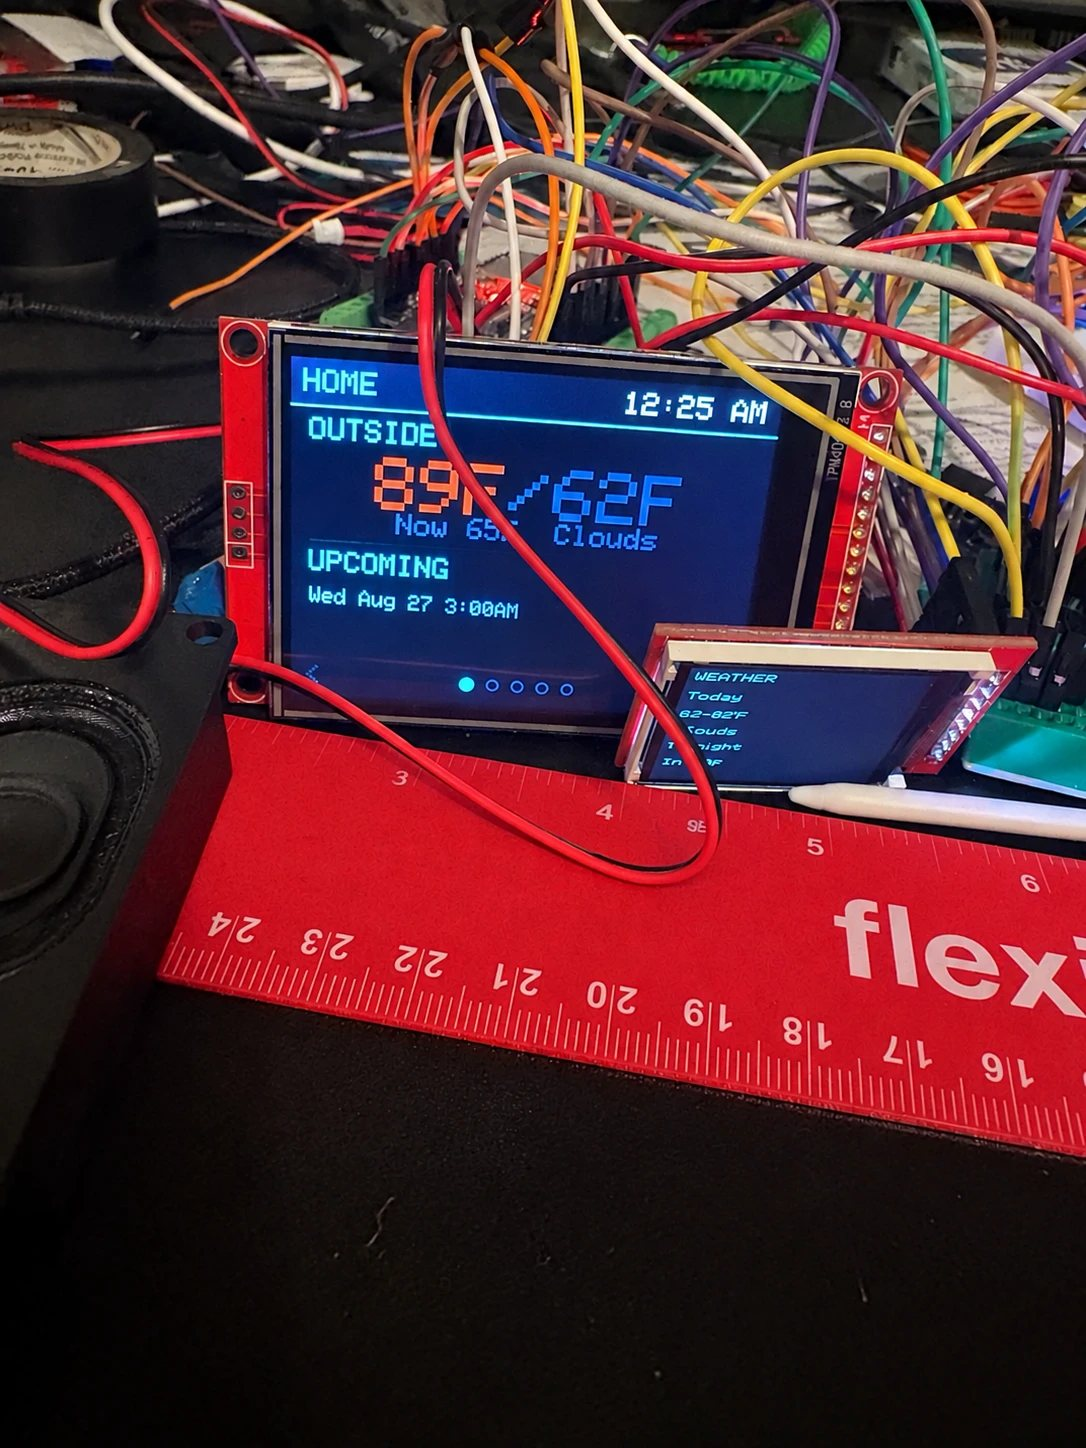
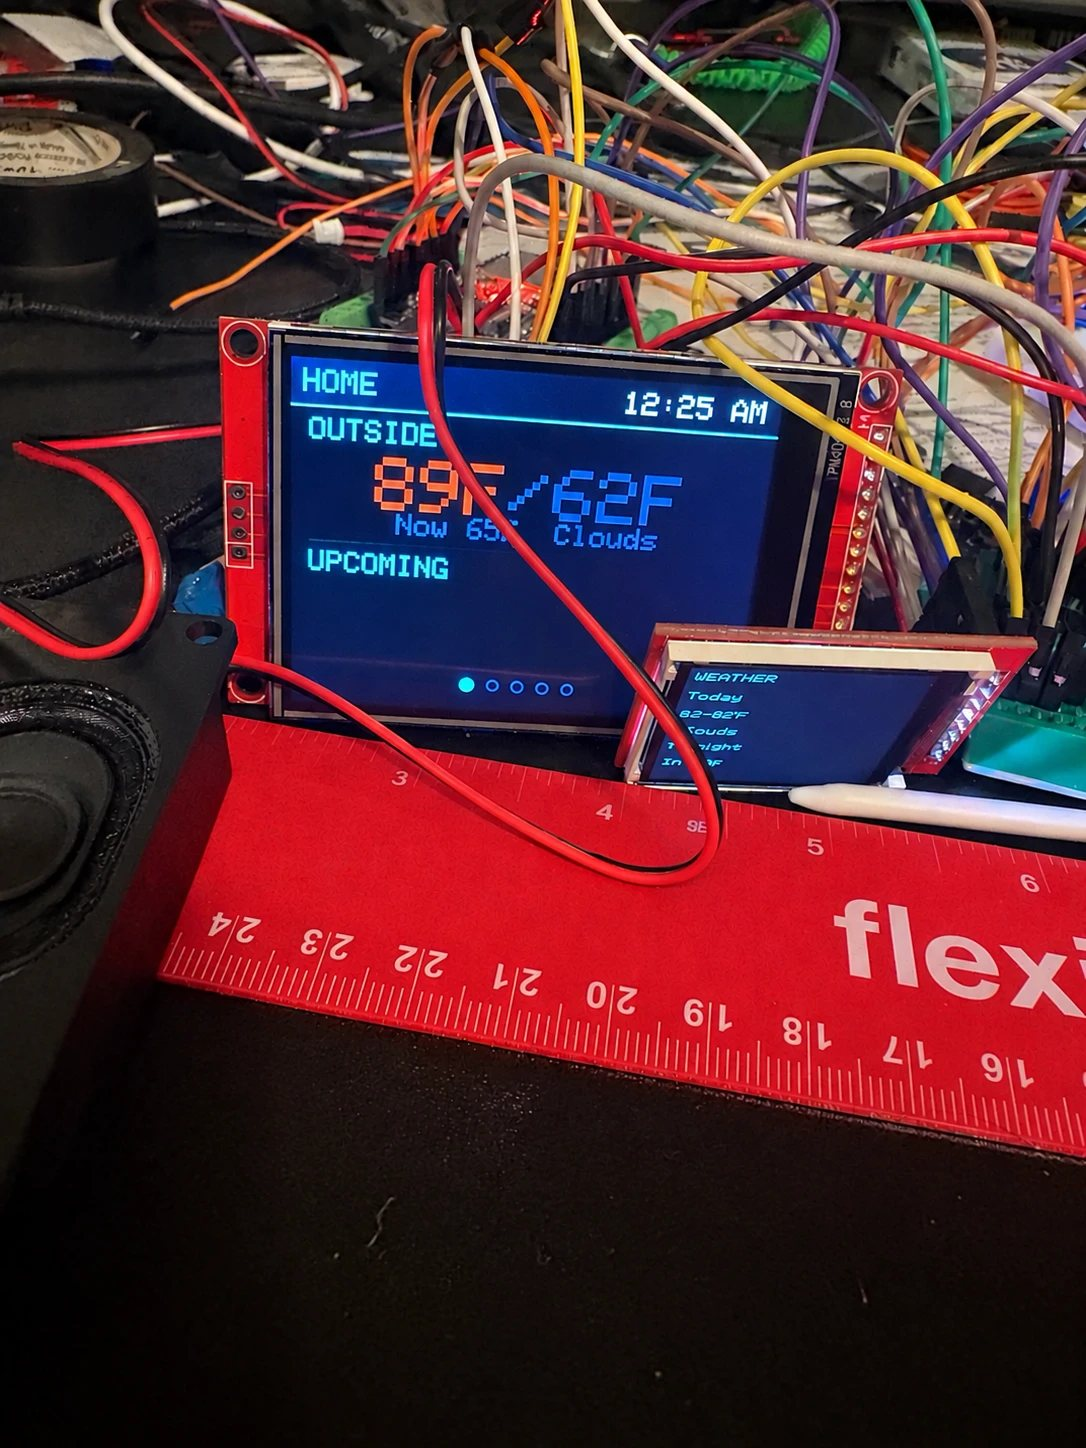
Swap in the bench photo without calendar contents
The UPCOMING panel is now empty, so the caption and alt text no longer
claim a visible calendar entry.

diff --git a/projects/nightstand-hub.html b/projects/nightstand-hub.html
@@ -176,11 +176,11 @@
         </figure>
         <figure class="tall">
           <img src="../assets/img/nightstand/06-bench.jpg"
-               alt="Both displays running on a breadboard: the home screen with outside temperature and an upcoming calendar entry, and the status display beside it"
+               alt="Both displays running on a breadboard: the home screen showing outside temperature and conditions, with the status display beside it"
                loading="lazy" width="1086" height="1448">
-          <figcaption>Bench bring-up: the home screen pulling outside temperature and the next
-            calendar entry, with the status display beside it. The sensor wasn't wired in yet —
-            this stage is where the display and bus faults turned up.</figcaption>
+          <figcaption>Bench bring-up: the home screen pulling live outside temperature and
+            conditions, with the status display beside it. The sensor wasn't wired in yet — this
+            stage is where the display and bus faults turned up.</figcaption>
         </figure>
       </div>
     </div>
